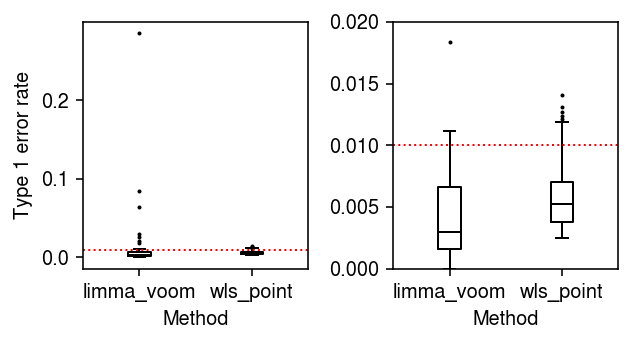
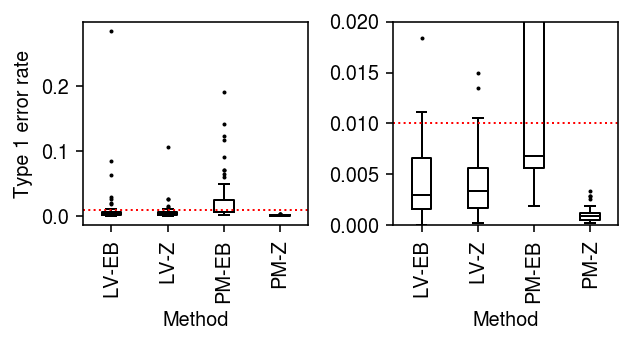
Start digging into voom

diff --git a/docs/voom.html b/docs/voom.html
@@ -1,7 +1,7 @@
 <!DOCTYPE html>
 <html lang="en">
 <head>
-<!-- 2020-06-13 Sat 13:02 -->
+<!-- 2020-06-13 Sat 15:11 -->
 <meta charset="utf-8">
 <meta name="viewport" content="width=device-width, initial-scale=1">
 <title>An improved voom transform for scRNA-seq data</title>
@@ -389,6 +389,7 @@ in scRNA-seq data.
 <span class="org-keyword">import</span> scipy.stats <span class="org-keyword">as</span> st
 <span class="org-keyword">import</span> sqlite3
 
+<span class="org-variable-name">limma</span> = rpy2.robjects.packages.importr(<span class="org-string">'limma'</span>)
 rpy2.robjects.pandas2ri.activate()
 </pre>
 </div>
@@ -606,33 +607,10 @@ Implement a simplified
 
 <span class="org-keyword">def</span> <span class="org-function-name">estimate_limma_voom</span>(x, onehot):
   <span class="org-doc">"""Return DataFrame of bhat, se"""</span>
-  <span class="org-variable-name">limma</span> = rpy2.robjects.packages.importr(<span class="org-string">'limma'</span>)
   <span class="org-comment-delimiter"># </span><span class="org-comment">Important: limma expects genes x samples</span>
   <span class="org-variable-name">y</span> = limma.voom(x.T)
   <span class="org-variable-name">fit</span> = limma.lmFit(y, np.vstack([onehot[:,0], np.ones(x.shape[0])]).T)
-  <span class="org-variable-name">fit</span> = limma.eBayes(fit)
-  <span class="org-keyword">return</span> fit.rx2(<span class="org-string">'p.value'</span>)[:,0]
-
-<span class="org-keyword">def</span> <span class="org-function-name">fit_wls</span>(x, y, w):
-  <span class="org-doc">"""Return DataFrame of bhat, se</span>
-
-<span class="org-doc">  x - array-like (n, 1)</span>
-<span class="org-doc">  y - array-like (n, p)</span>
-<span class="org-doc">  w - array-like (n, p)</span>
-
-<span class="org-doc">  """</span>
-  <span class="org-variable-name">result</span> = []
-  <span class="org-keyword">for</span> j <span class="org-keyword">in</span> <span class="org-builtin">range</span>(y.shape[1]):
-    <span class="org-variable-name">wj</span> = np.diag(np.sqrt(w[:,j]))
-    <span class="org-variable-name">wx</span> = wj @ x
-    <span class="org-variable-name">wy</span> = wj @ y[:,j]
-    <span class="org-variable-name">bhat</span> = np.linalg.pinv(wx) @ wy
-    <span class="org-variable-name">V</span> = 1 / (wx.T @ wx)
-    <span class="org-variable-name">stat</span> = bhat[0] / np.sqrt(V[0,0])
-    <span class="org-variable-name">pval</span> = st.chi2(1).sf(stat * stat)
-    result.append(pval)
-  <span class="org-variable-name">result</span> = np.array(result)
-  <span class="org-keyword">return</span> result
+  <span class="org-keyword">return</span> fit
 
 <span class="org-keyword">def</span> <span class="org-function-name">estimate_wls_point</span>(x, onehot):
   <span class="org-doc">"""Return DataFrame of bhat, se</span>
@@ -645,7 +623,9 @@ Implement a simplified
   <span class="org-variable-name">log_mean</span> = np.log(x + 1) - np.log(s)
   <span class="org-comment-delimiter"># </span><span class="org-comment">[n_donors, n_genes]</span>
   <span class="org-variable-name">w</span> = np.exp(log_mean) * s
-  <span class="org-keyword">return</span> fit_wls(np.vstack([onehot[:,0], np.ones(x.shape[0])]).T, log_mean, w)
+  <span class="org-comment-delimiter"># </span><span class="org-comment">Reuse limma</span>
+  <span class="org-variable-name">fit</span> = limma.lm_series(log_mean.T, design=np.vstack([onehot[:,0], np.ones(x.shape[0])]).T, weights=w.T)
+  <span class="org-keyword">return</span> fit
 
 <span class="org-keyword">def</span> <span class="org-function-name">estimate_wls_gamma</span>(x, onehot, lr=1e-2, num_epochs=40, batch_size=64, shuffle=<span class="org-constant">True</span>):
   <span class="org-doc">"""Return DataFrame of bhat, se</span>
@@ -668,15 +648,28 @@ Implement a simplified
   <span class="org-variable-name">w</span> = 1 / sp.polygamma(1, np.exp(log_inv_disp))
   <span class="org-keyword">return</span> fit_wls(np.hstack([np.arange(2), np.ones(2)]).reshape(2, -1), m, w)
 
+<span class="org-keyword">def</span> <span class="org-function-name">estimate_moderated_t</span>(fit):
+  <span class="org-variable-name">fit</span> = limma.eBayes(fit)
+  <span class="org-keyword">return</span> fit.rx2(<span class="org-string">'p.value'</span>)[:,0]
+
+<span class="org-keyword">def</span> <span class="org-function-name">estimate_z</span>(fit):
+  <span class="org-variable-name">sf</span> = st.chi2(1).sf
+  <span class="org-comment-delimiter"># </span><span class="org-comment">Important: this has estimates for the intercept also</span>
+  <span class="org-variable-name">stat</span> = fit.rx2(<span class="org-string">'coefficients'</span>) / fit.rx2(<span class="org-string">'stdev.unscaled'</span>)
+  <span class="org-variable-name">pval</span> = sf(np.square(stat))
+  <span class="org-keyword">return</span> pval[:,0]
+
 <span class="org-keyword">def</span> <span class="org-function-name">evaluate_type1</span>(dat, alpha=0.01, n_trials=1, min_counts=10):
   <span class="org-variable-name">result</span> = []
   <span class="org-keyword">for</span> i <span class="org-keyword">in</span> <span class="org-builtin">range</span>(n_trials):
     <span class="org-keyword">for</span> n_cells <span class="org-keyword">in</span> (200,):
-      <span class="org-variable-name">x</span>, <span class="org-variable-name">onehot</span> = simulate_null(dat, n_cells=n_cells, to_dense=<span class="org-constant">True</span>, min_counts=10, seed=i)
+      <span class="org-variable-name">x</span>, <span class="org-variable-name">onehot</span> = simulate_null(dat, n_cells=n_cells, to_dense=<span class="org-constant">True</span>, min_counts=min_counts, seed=i)
       <span class="org-keyword">for</span> method <span class="org-keyword">in</span> (<span class="org-string">'limma_voom'</span>, <span class="org-string">'wls_point'</span>):
-        <span class="org-variable-name">pval</span> = <span class="org-builtin">globals</span>()[f<span class="org-string">'estimate_{method}'</span>](x, onehot)
-        result.append((n_cells, method, i, (pval &lt; alpha).mean()))
-  <span class="org-variable-name">result</span> = pd.DataFrame(result, columns=[<span class="org-string">'n_cells'</span>, <span class="org-string">'method'</span>, <span class="org-string">'trial'</span>, <span class="org-string">'fpr'</span>])
+        <span class="org-variable-name">fit</span> = <span class="org-builtin">globals</span>()[f<span class="org-string">'estimate_{method}'</span>](x, onehot)
+        <span class="org-keyword">for</span> test <span class="org-keyword">in</span> (<span class="org-string">'moderated_t'</span>, <span class="org-string">'z'</span>):
+          <span class="org-variable-name">pval</span> = <span class="org-builtin">globals</span>()[f<span class="org-string">'estimate_{test}'</span>](fit)
+          result.append((n_cells, method, test, i, (pval &lt; alpha).mean()))
+  <span class="org-variable-name">result</span> = pd.DataFrame(result, columns=[<span class="org-string">'n_cells'</span>, <span class="org-string">'method'</span>, <span class="org-string">'test'</span>, <span class="org-string">'trial'</span>, <span class="org-string">'fpr'</span>])
   <span class="org-keyword">return</span> result
 </pre>
 </div>
@@ -703,7 +696,7 @@ homogeneous population, and randomly assign labels.
 </div>
 
 <div class="org-src-container">
-<pre class="src src-ipython"><span class="org-variable-name">result</span> = evaluate_type1(b_cells, n_trials=50)
+<pre class="src src-ipython"><span class="org-variable-name">result</span> = evaluate_type1(b_cells, min_counts=10, n_trials=50)
 </pre>
 </div>
 
@@ -711,14 +704,15 @@ homogeneous population, and randomly assign labels.
 <pre class="src src-ipython">plt.clf()
 <span class="org-variable-name">fig</span>, <span class="org-variable-name">ax</span> = plt.subplots(1, 2)
 fig.set_size_inches(4.5, 2.5)
-<span class="org-keyword">for</span> i, (k, g) <span class="org-keyword">in</span> <span class="org-builtin">enumerate</span>(result.groupby(<span class="org-string">'method'</span>)):
-  ax[0].boxplot(g[<span class="org-string">'fpr'</span>], positions=[i], widths=0.2, medianprops={<span class="org-string">'color'</span>: <span class="org-string">'k'</span>}, flierprops={<span class="org-string">'marker'</span>: <span class="org-string">'.'</span>, <span class="org-string">'markersize'</span>: 2})
-  ax[1].boxplot(g[<span class="org-string">'fpr'</span>], positions=[i], widths=0.2, medianprops={<span class="org-string">'color'</span>: <span class="org-string">'k'</span>}, flierprops={<span class="org-string">'marker'</span>: <span class="org-string">'.'</span>, <span class="org-string">'markersize'</span>: 2})
+<span class="org-variable-name">labels</span> = [<span class="org-string">'LV-EB'</span>, <span class="org-string">'LV-Z'</span>, <span class="org-string">'PM-EB'</span>, <span class="org-string">'PM-Z'</span>]
+<span class="org-keyword">for</span> i, (k, g) <span class="org-keyword">in</span> <span class="org-builtin">enumerate</span>(result.groupby([<span class="org-string">'method'</span>, <span class="org-string">'test'</span>])):
+  ax[0].boxplot(g[<span class="org-string">'fpr'</span>], positions=[i], widths=0.35, medianprops={<span class="org-string">'color'</span>: <span class="org-string">'k'</span>}, flierprops={<span class="org-string">'marker'</span>: <span class="org-string">'.'</span>, <span class="org-string">'markersize'</span>: 2})
+  ax[1].boxplot(g[<span class="org-string">'fpr'</span>], positions=[i], widths=0.35, medianprops={<span class="org-string">'color'</span>: <span class="org-string">'k'</span>}, flierprops={<span class="org-string">'marker'</span>: <span class="org-string">'.'</span>, <span class="org-string">'markersize'</span>: 2})
 ax[1].set_ylim(0, 0.02)
 <span class="org-keyword">for</span> a <span class="org-keyword">in</span> ax:
   a.axhline(y=0.01, c=<span class="org-string">'r'</span>, lw=1, ls=<span class="org-string">':'</span>)
-  a.set_xticks(np.arange(2))
-  a.set_xticklabels(result[<span class="org-string">'method'</span>].unique())
+  a.set_xticks(<span class="org-builtin">range</span>(<span class="org-builtin">len</span>(labels)))
+  a.set_xticklabels(labels, rotation=90)
   a.set_xlabel(<span class="org-string">'Method'</span>)
 ax[0].set_ylabel(<span class="org-string">'Type 1 error rate'</span>)
 fig.tight_layout()
@@ -728,6 +722,113 @@ fig.tight_layout()
 
 <div class="figure">
 <p><img src="figure/voom.org/fpr.png" alt="fpr.png">
+</p>
+</div>
+
+<p>
+Extract the case where limma-voom does worst.
+</p>
+
+<div class="org-src-container">
+<pre class="src src-ipython"><span class="org-variable-name">query</span> = result.loc[(result[<span class="org-string">'method'</span>] == <span class="org-string">'limma_voom'</span>) &amp; (result[<span class="org-string">'test'</span>] == <span class="org-string">'moderated_t'</span>) &amp; (result[<span class="org-string">'fpr'</span>] &gt; 0.2)]
+<span class="org-variable-name">x</span>, <span class="org-variable-name">onehot</span> = simulate_null(b_cells, n_cells=200, min_counts=10, seed=query[<span class="org-string">'trial'</span>], to_dense=<span class="org-constant">True</span>)
+<span class="org-variable-name">fits</span> = {method: <span class="org-builtin">globals</span>()[f<span class="org-string">'estimate_{method}'</span>](x, onehot) <span class="org-keyword">for</span> method <span class="org-keyword">in</span> (<span class="org-string">'limma_voom'</span>, <span class="org-string">'wls_point'</span>)}
+</pre>
+</div>
+
+<p>
+Look at the distributions of estimated effect sizes.
+</p>
+
+<div class="org-src-container">
+<pre class="src src-ipython">plt.clf()
+<span class="org-variable-name">fig</span>, <span class="org-variable-name">ax</span> = plt.subplots(1, 2)
+fig.set_size_inches(4.5, 2.5)
+<span class="org-variable-name">grid</span> = np.linspace(-.3, .3, 1000)
+<span class="org-keyword">for</span> a, k <span class="org-keyword">in</span> <span class="org-builtin">zip</span>(ax, fits):
+  a.hist(fits[k].rx2(<span class="org-string">'coefficients'</span>)[:,0], bins=15, color=<span class="org-string">'0.7'</span>)
+  a.plot(grid, st.norm(scale=fits[k].rx2(<span class="org-string">'stdev.unscaled'</span>)[:,0].mean()).pdf(grid), c=<span class="org-string">'k'</span>, lw=1)
+  a.set_title(k)
+  a.set_xlabel(<span class="org-string">'Effect size'</span>)
+ax[0].set_ylabel(<span class="org-string">'Density'</span>)
+fig.tight_layout()
+</pre>
+</div>
+
+
+<div class="figure">
+<p><img src="figure/voom.org/lv-ex.png" alt="lv-ex.png">
+</p>
+</div>
+
+<p>
+Look at the relationship between estimated effect size and estimated
+standard error.
+</p>
+
+<div class="org-src-container">
+<pre class="src src-ipython"><span class="org-variable-name">cm</span> = plt.get_cmap(<span class="org-string">'Dark2'</span>)
+plt.clf()
+<span class="org-variable-name">fig</span>, <span class="org-variable-name">ax</span> = plt.subplots(1, 2)
+fig.set_size_inches(5, 2.5)
+<span class="org-keyword">for</span> a, k <span class="org-keyword">in</span> <span class="org-builtin">zip</span>(ax, [<span class="org-string">'coefficients'</span>, <span class="org-string">'stdev.unscaled'</span>]):
+  a.scatter(fits[<span class="org-string">'limma_voom'</span>].rx2(k)[:,0], fits[<span class="org-string">'wls_point'</span>].rx2(k)[:,0], s=1, c=<span class="org-string">'k'</span>, alpha=0.1)
+  a.set_xlabel(f<span class="org-string">'limma-voom {k}'</span>)
+  a.set_ylabel(f<span class="org-string">'wls-SE {k}'</span>)
+<span class="org-variable-name">lim</span> = [-.5, .5]
+ax[0].plot(lim, lim, lw=1, ls=<span class="org-string">':'</span>, c=<span class="org-string">'r'</span>)
+<span class="org-variable-name">lim</span> = [0, .1]
+ax[1].plot(lim, lim, lw=1, ls=<span class="org-string">':'</span>, c=<span class="org-string">'r'</span>)
+fig.tight_layout()
+</pre>
+</div>
+
+
+<div class="figure">
+<p><img src="figure/voom.org/lv-bhat-se.png" alt="lv-bhat-se.png">
+</p>
+</div>
+
+<p>
+Plot the voom-estimated weights against the point mass&#x2013;estimated weights.
+</p>
+
+<div class="org-src-container">
+<pre class="src src-ipython"><span class="org-variable-name">y</span> = limma.voom(x.T)
+<span class="org-variable-name">w0</span> = y.rx2(<span class="org-string">'weights'</span>).T
+<span class="org-variable-name">w1</span> = x + 1
+</pre>
+</div>
+
+<div class="org-src-container">
+<pre class="src src-ipython">plt.clf()
+plt.gcf().set_size_inches(2.5, 2.5)
+plt.scatter(y.rx2(<span class="org-string">'E'</span>).ravel(), y.rx2(<span class="org-string">'weights'</span>), s=1, c=<span class="org-string">'k'</span>, alpha=0.1)
+plt.xlabel(<span class="org-string">'$\ln(10^6 (y + .5) / (s + 1))$'</span>)
+plt.ylabel(<span class="org-string">'Weight'</span>)
+plt.tight_layout()
+</pre>
+</div>
+
+
+<div class="figure">
+<p><img src="figure/voom.org/sim-ex-voom.png" alt="sim-ex-voom.png">
+</p>
+</div>
+
+<div class="org-src-container">
+<pre class="src src-ipython">plt.clf()
+plt.gcf().set_size_inches(2.5, 2.5)
+plt.scatter(w0.ravel(), w1.ravel(), s=1, c=<span class="org-string">'k'</span>, alpha=0.1)
+plt.xlabel(<span class="org-string">'voom weight'</span>)
+plt.ylabel(<span class="org-string">'Point mass inverse var'</span>)
+plt.tight_layout()
+</pre>
+</div>
+
+
+<div class="figure">
+<p><img src="figure/voom.org/voom-vs-point-mass.png" alt="voom-vs-point-mass.png">
 </p>
 </div>
 </div>
@@ -747,7 +848,7 @@ population, randomly assign labels, and then use binomial thinning
 </div>
 <div id="postamble" class="status">
 <p class="author">Author: Abhishek Sarkar</p>
-<p class="date">Created: 2020-06-13 Sat 13:02</p>
+<p class="date">Created: 2020-06-13 Sat 15:11</p>
 <p class="validation"><a href="http://validator.w3.org/check?uri=referer">Validate</a></p>
 </div>
 </body>
